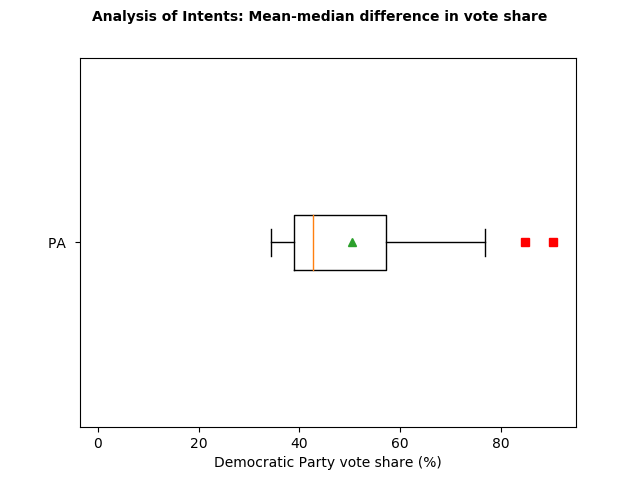
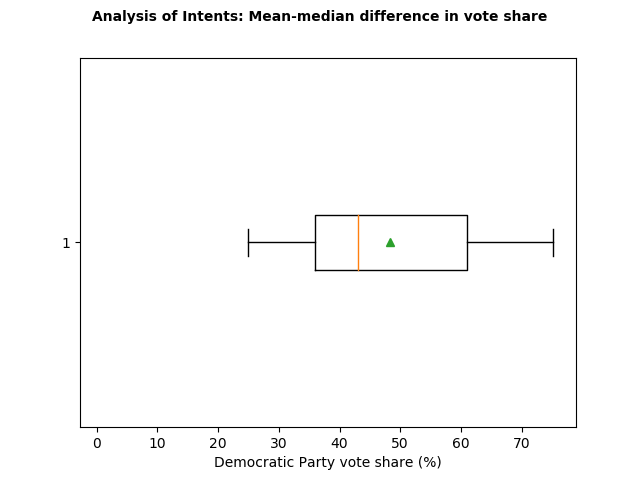
Second part working

diff --git a/foo.html b/foo.html
@@ -55,3 +55,14 @@ This difference is not statistically significant (p>0.05).
 </p>
 <p></p>
 <p>
+<IMG SRC="foo_Test2a.png" border="0" alt="Logo"></p>
+<p></p>
+<p>
+When one party is dominant statewide, it gains an overall advantage by spreading its strength as uniformly as possible across districts. The statistical test to detect an abnormally uniform pattern is the <a href="http://www.itl.nist.gov/div898/handbook/eda/section3/eda358.htm">chi-square test</a>, in which the vote share of the majority party-controlled seats are compared with nationwide patterns.</p>
+<p></p>
+<p>
+The standard deviation of the Republican majoritys winning vote share is 7.3 %. 
+At a national level, the standard deviation is nan %. 
+This difference is not statistically significant (p>0.05). 
+</p>
+<p>

diff --git a/gerrymander_tests_part1.py b/gerrymander_tests_part1.py
@@ -138,7 +138,7 @@ def gerrymander_tests_part1(year, states, year_baseline, state_baseline, imputed
         # national_data = gerrymander_read_results(2012, list(range(1, 51)))
         baseline_message = baseline_message + ' U.S. House 2012'
         print("Year_baseline parameter didn't parse - defaulting national data to 2012")
-        national_raw = national_data['D_voteshare'] # Added because referenced without assignmnet
+        national_raw = national_data['D_voteshare']  # Added because referenced without assignment
 
     n_delegates = len(state_raw)
     d_districts = indices(state_raw, lambda x_temp: x_temp >= 0.5)
@@ -148,7 +148,7 @@ def gerrymander_tests_part1(year, states, year_baseline, state_baseline, imputed
 
     # Let's round state_raw to 5 digits to for the 1.00000's to 1
     rounded_state_raw = [round(state, 5) for state in state_raw]
-    anyimputed = 0 in rounded_state_raw or 1 in rounded_state_raw
+    any_imputed = 0 in rounded_state_raw or 1 in rounded_state_raw
     imputed_uncontested = min(imputed_uncontested, 1)
     imputed_uncontested = max(imputed_uncontested, 0)
     imputed_floor = min(imputed_uncontested, 1 - imputed_uncontested)
@@ -200,16 +200,16 @@ def gerrymander_tests_part1(year, states, year_baseline, state_baseline, imputed
         print("<b>Analysis of Intents</b></p>\n<p></p>\n<p>", file=f1)
 
         print("If a political party wishes to create for itself an advantage, it will pack its opponents to win "
-            "overwhelmingly in a small number of districts, while distributing its own votes more thinly, "
-            "but still to produce reliable wins. ",
-            file=f1)
+              "overwhelmingly in a small number of districts, while distributing its own votes more thinly, "
+              "but still to produce reliable wins. ",
+              file=f1)
         print('</p>\n<p></p>\n<p>', file=f1)
         print("Partisan gerrymandering arises not from single districts, but from patterns of outcomes. Thus a single "
               "lopsided district may not be an offense - indeed, single-district gerrymandering is permitted by "
               "Supreme Court precedent, and may be required for the construction of individual districts that comply "
               "with the Voting Rights Act. Rather, it is combinations of outcomes that confer undue advantage to one "
               "party or the other.",
-            file=f1)
+              file=f1)
         print('</p>\n<p></p>\n<p>', file=f1)
         print('The following two tests provide a way of quantifying any such advantage in a set of election results.',
               file=f1)
@@ -295,9 +295,8 @@ def gerrymander_tests_part1(year, states, year_baseline, state_baseline, imputed
             #           plt.show()
             print('<IMG SRC="%s_Test1.png" border="0" alt="Logo"></p>\n<p>' % output_filename, file=f1)
         else:
-            print(
-                "Can't compare win margins. For this test, both parties must have at least two seats.</p>\n<p></p>\n<p>",
-                file=f1)
+            print("Can't compare win margins. For this test, both parties must have at least two "
+                  "seats.</p>\n<p></p>\n<p>", file=f1)
 
             #########################################
             ##### Test for asymmetric advantage #####
@@ -358,7 +357,7 @@ def gerrymander_tests_part1(year, states, year_baseline, state_baseline, imputed
             fig = plt.figure()
             fig.suptitle('Analysis of Intents: Mean-median difference in vote share', fontsize=10, fontweight='bold')
             ax = fig.add_subplot(111)
-            ax.boxplot(data, 0, 'rs', 0, labels=labels, showmeans=True)
+            ax.boxplot(data, 0, 'rs', 0, showmeans=True) # labels were removed
             ax.set_xlabel('Democratic Party vote share (%)')
             y = data[0]
             x = np.random.normal(1, 0.04, size=len(y))
@@ -372,9 +371,12 @@ def gerrymander_tests_part1(year, states, year_baseline, state_baseline, imputed
                   "seats.</p>\n<p></p>\n<p>", file=f1)
 
     if partisan_balance < 0.05:
-        print(
-            'When one party is dominant statewide, it gains an overall advantage by spreading its strength as uniformly as possible across districts. The statistical test to detect an abnormally uniform pattern is the <a href="http://www.itl.nist.gov/div898/handbook/eda/section3/eda358.htm">chi-square test</a>, in which the vote share of the majority party-controlled seats are compared with nationwide patterns.</p>\n<p></p>\n<p>',
-            file=f1)
+        print("When one party is dominant statewide, it gains an overall advantage by spreading its strength as "
+              "uniformly as possible across districts. The statistical test to detect an abnormally uniform pattern "
+              "is the <a href=\"http://www.itl.nist.gov/div898/handbook/eda/section3/eda358.htm\">chi-square "
+              "test</a>, in which the vote share of the majority party-controlled seats are compared with nationwide "
+              "patterns.</p>\n<p></p>\n<p>",
+              file=f1)
         # chi square test on majority of delegation
         if len(d_districts) > len(r_districts):
             var_compare = np.var(national_results[national_results > 0.5])
@@ -396,8 +398,8 @@ def gerrymander_tests_part1(year, states, year_baseline, state_baseline, imputed
 
         if p2b < 0.01:
             print("This difference is statistically significant (p<0.01), and in a case of suspected gerrymandering is "
-                "extremely unlikely to have arisen by chance. ",
-                file=f1)
+                  "extremely unlikely to have arisen by chance. ",
+                  file=f1)
         elif p2b < 0.05:
             print('This difference is statistically significant (p<0.05), and in a case of suspected gerrymandering is '
                   'unlikely to have arisen by chance. ',
@@ -411,19 +413,15 @@ def gerrymander_tests_part1(year, states, year_baseline, state_baseline, imputed
     #        data = [df_state_raw['D_voteshare']]
     #        color = list(df_state_raw['pol'])
 
-    #        fig = plt.figure()
-    #        fig.suptitle('Analysis of Intents: Chi-square test for unusually uniform outcomes', fontsize=10, fontweight='bold')
-    #        ax = fig.add_subplot(111)
-    #        ax.boxplot(data, 0, 'ro', 0, labels=labels, showfliers=True, showmeans=True)
-    #        ax.set_xlabel('Districts (sorted by vote share)')
-    #        ax.set_ylabel('Democratic vote share (%)')
-    #        plt.savefig(output_filename + '_Test2b.png')
-    #        plt.show()
-    #        print('<IMG SRC="%s_Test2b.png" border="0" alt="Logo"></p>\n<p>' % output_filename, file=f1)
+    # fig = plt.figure() fig.subtitle('Analysis of Intents: Chi-square test for unusually uniform outcomes',
+    # fontsize=10, fontweight='bold') ax = fig.add_subplot(111) ax.boxplot(data, 0, 'ro', 0, labels=labels,
+    # showfliers=True, showmeans=True) ax.set_xlabel('Districts (sorted by vote share)') ax.set_ylabel('Democratic
+    # vote share (%)') plt.savefig(output_filename + '_Test2b.png') plt.show() print('<IMG SRC="%s_Test2b.png"
+    # border="0" alt="Logo"></p>\n<p>' % output_filename, file=f1)
 
     f1.close()
 
-    #    % JPEG: show barplot of all districts
+    #    % JPEG: show bar plot of all districts
     #    % inset message, SD of majority district vote share, compare with national SD
     #        Fig2b = figure(3);
     #        set(Fig2b, 'Position', [600 100 600 300])
@@ -438,8 +436,8 @@ def gerrymander_tests_part1(year, states, year_baseline, state_baseline, imputed
     #            bar([length(d_districts)+1:length(d_districts)+length(r_districts)],100*state_raw(r_districts),'r')
     #        end
     #        axis([0 length(d_districts)+length(r_districts)+0.5 -3 100]);
-    #        xlabel('Districts (sorted by vote share)')
-    #        ylabel('Democratic vote share (%)')
+    #        x_label('Districts (sorted by vote share)')
+    #        y_label('Democratic vote share (%)')
     #        set(gca,'XTick',[]);
     #        set(gca,'YTick',[0 10 20 30 40 50 60 70 80 90 100]);
     #
